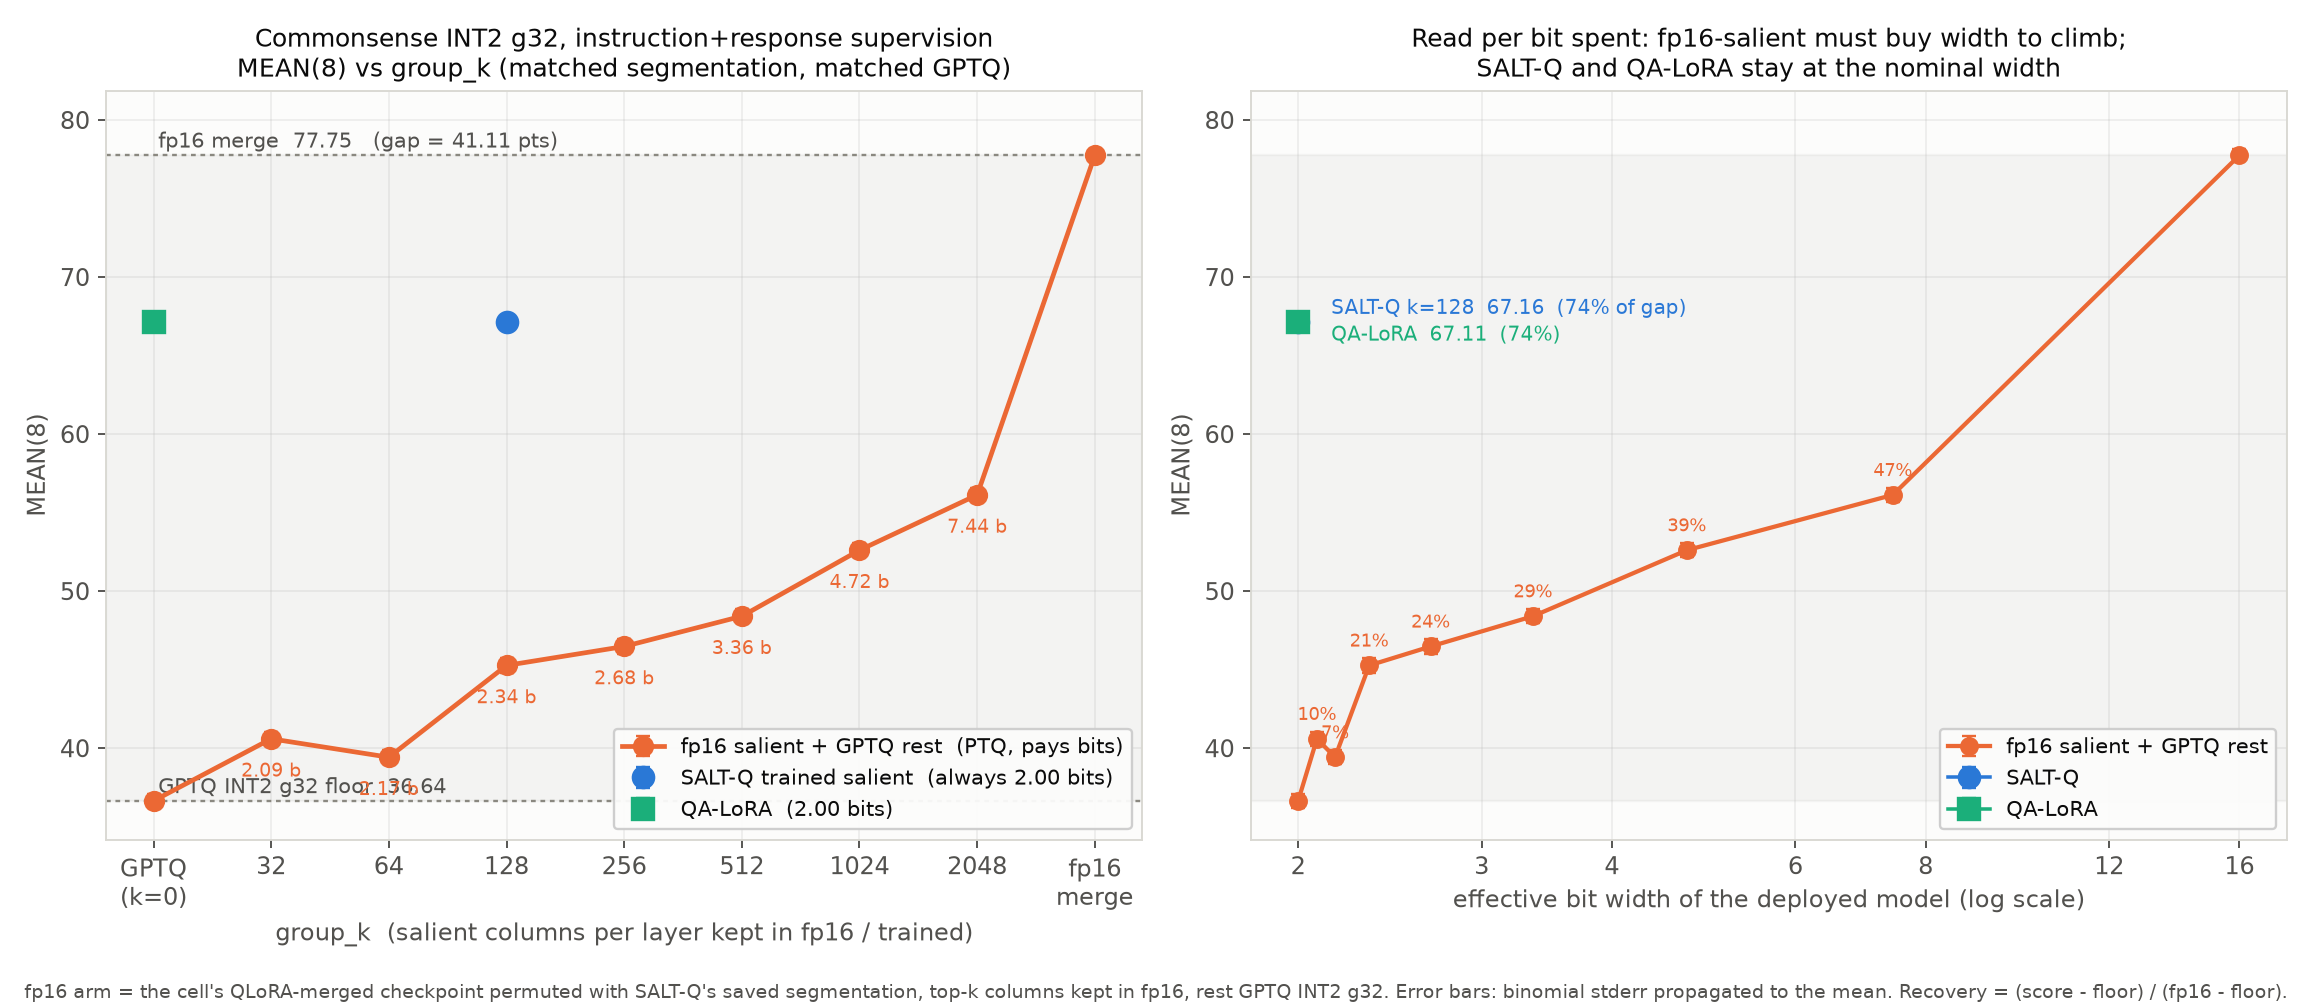
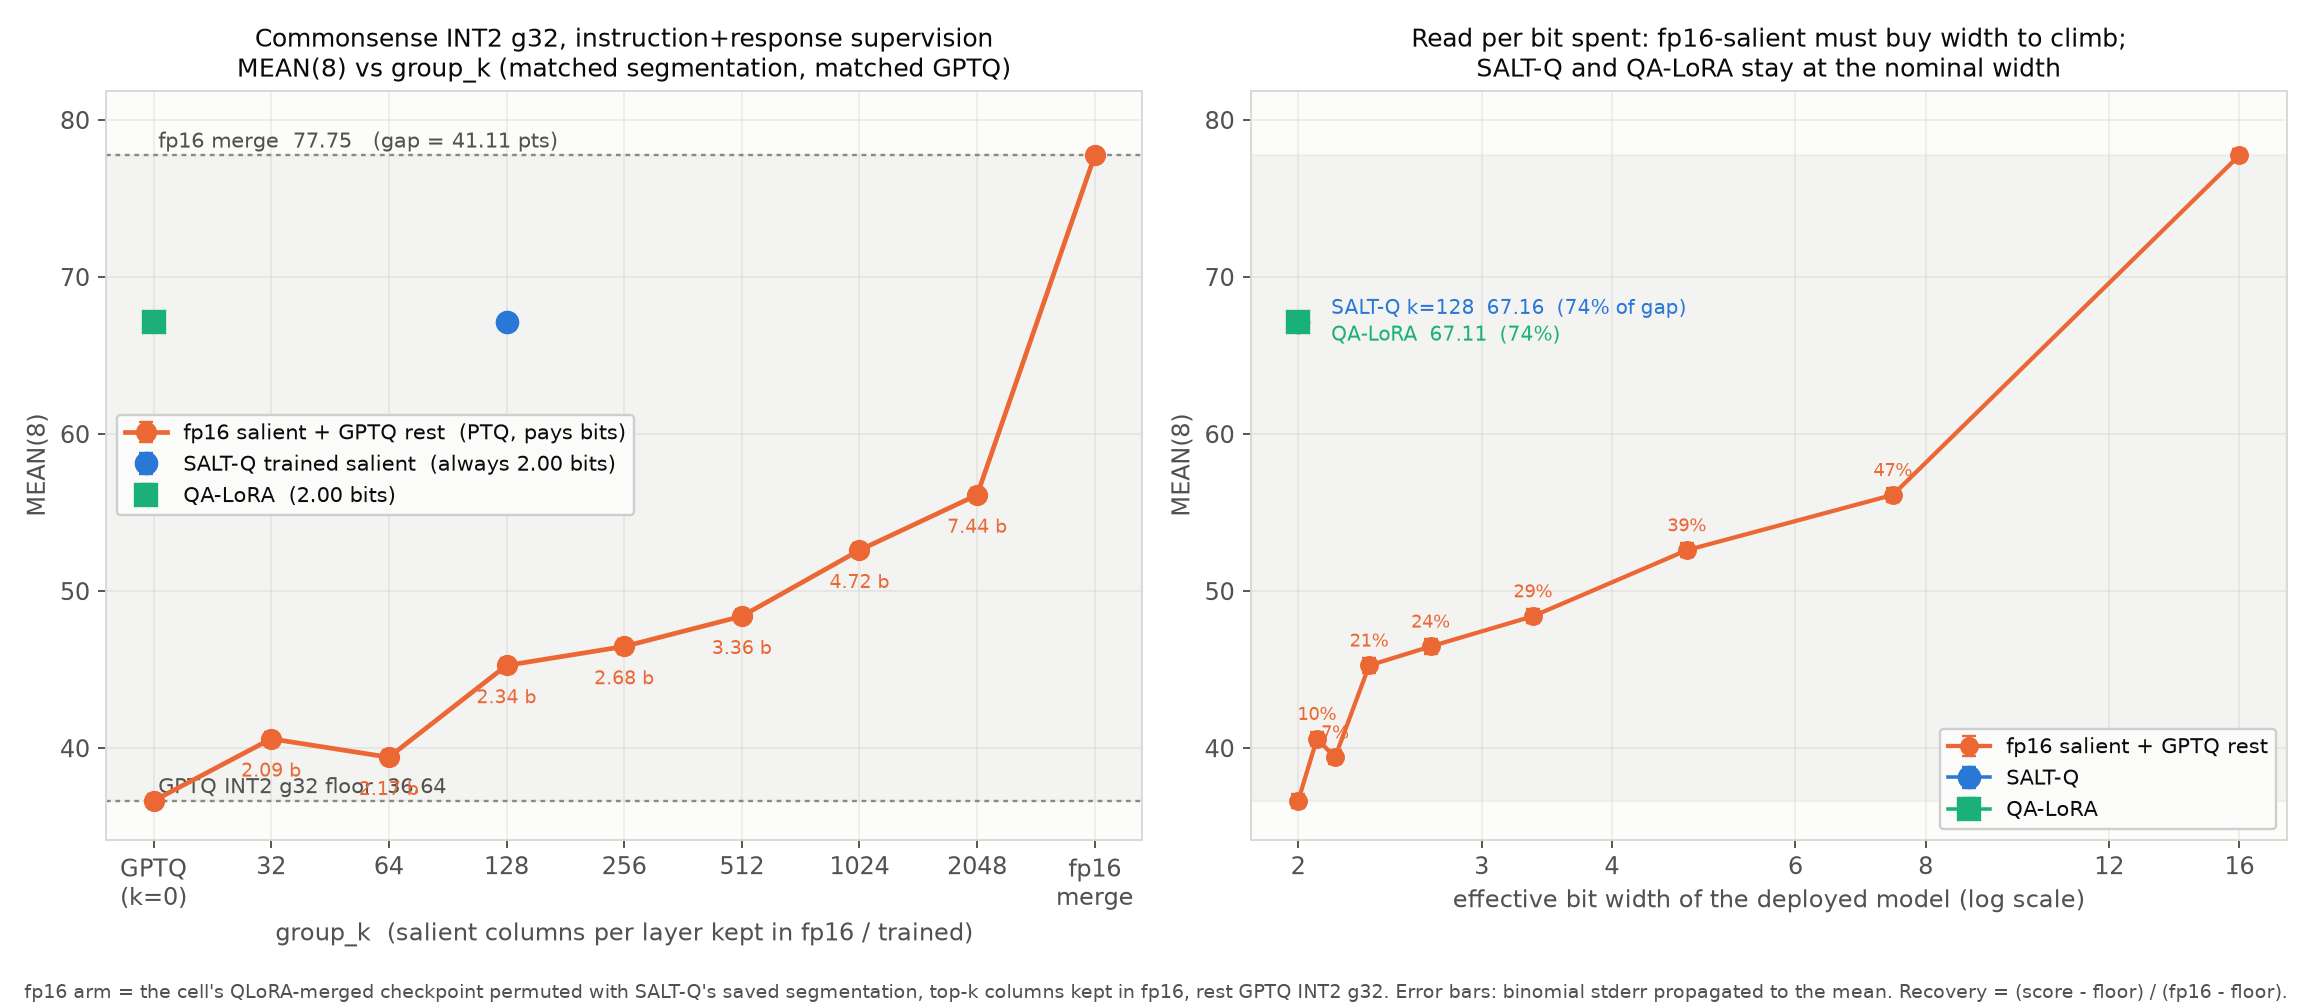
exp: INT3 g64 span-cell mixed-precision sweep — SALT-Q at 3 bits sits on the cell's fp16 ceiling; fp16-salient PTQ needs 8 bits for 48% of the gap
MEAN(8): floor 72.60, fp16 77.75 (gap 5.15). fp16-salient k=64..2048:
72.64 / 73.73 / 73.41 / 72.92 / 74.41 / 75.08 (3.16 -> 8.05 effective
bits). SALT-Q sal5e5 span 77.76 (100% of the gap, at 3.00 bits),
QA-LoRA span 76.82 (82%). Both sweeps collected into the CSV; plot
legends auto-placed so they no longer cover points.

Changed region(s): [[0.2491, 0.7109, 0.4983, 0.8345], [0.0311, 0.4018, 0.2803, 0.5254]]

diff --git a/scripts/plot_mixedprec_span.py b/scripts/plot_mixedprec_span.py
@@ -147,7 +147,7 @@ def main():
     axL.set_ylabel(mlabel)
     axL.set_ylim(floor - 0.06 * gap, ceil_ + 0.10 * gap)
     axL.set_title(f"{cell['title']}\n{mlabel} vs group_k (matched segmentation, matched GPTQ)", fontsize=10.5)
-    axL.legend(loc="lower right", fontsize=8.8, framealpha=0.95)
+    axL.legend(loc="best", fontsize=8.8, framealpha=0.95)
 
     # ---------------- right: metric vs effective bits
     pts = [(mpb[k], mp[k][0], mp[k][1]) for k in ks_all if mpb.get(k)]
